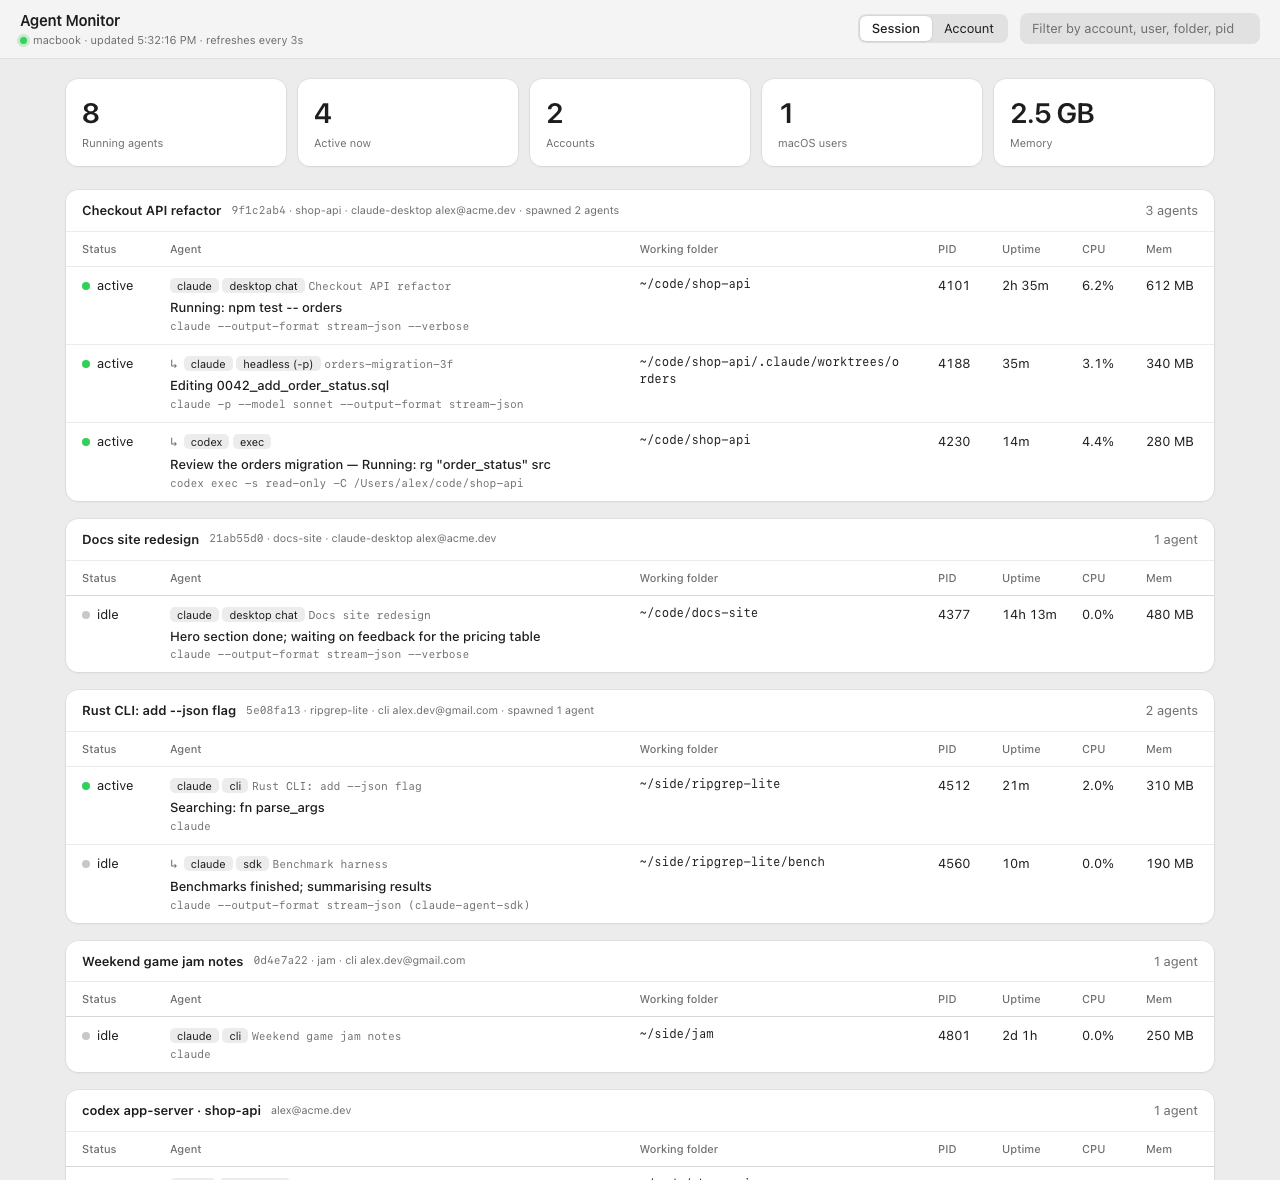
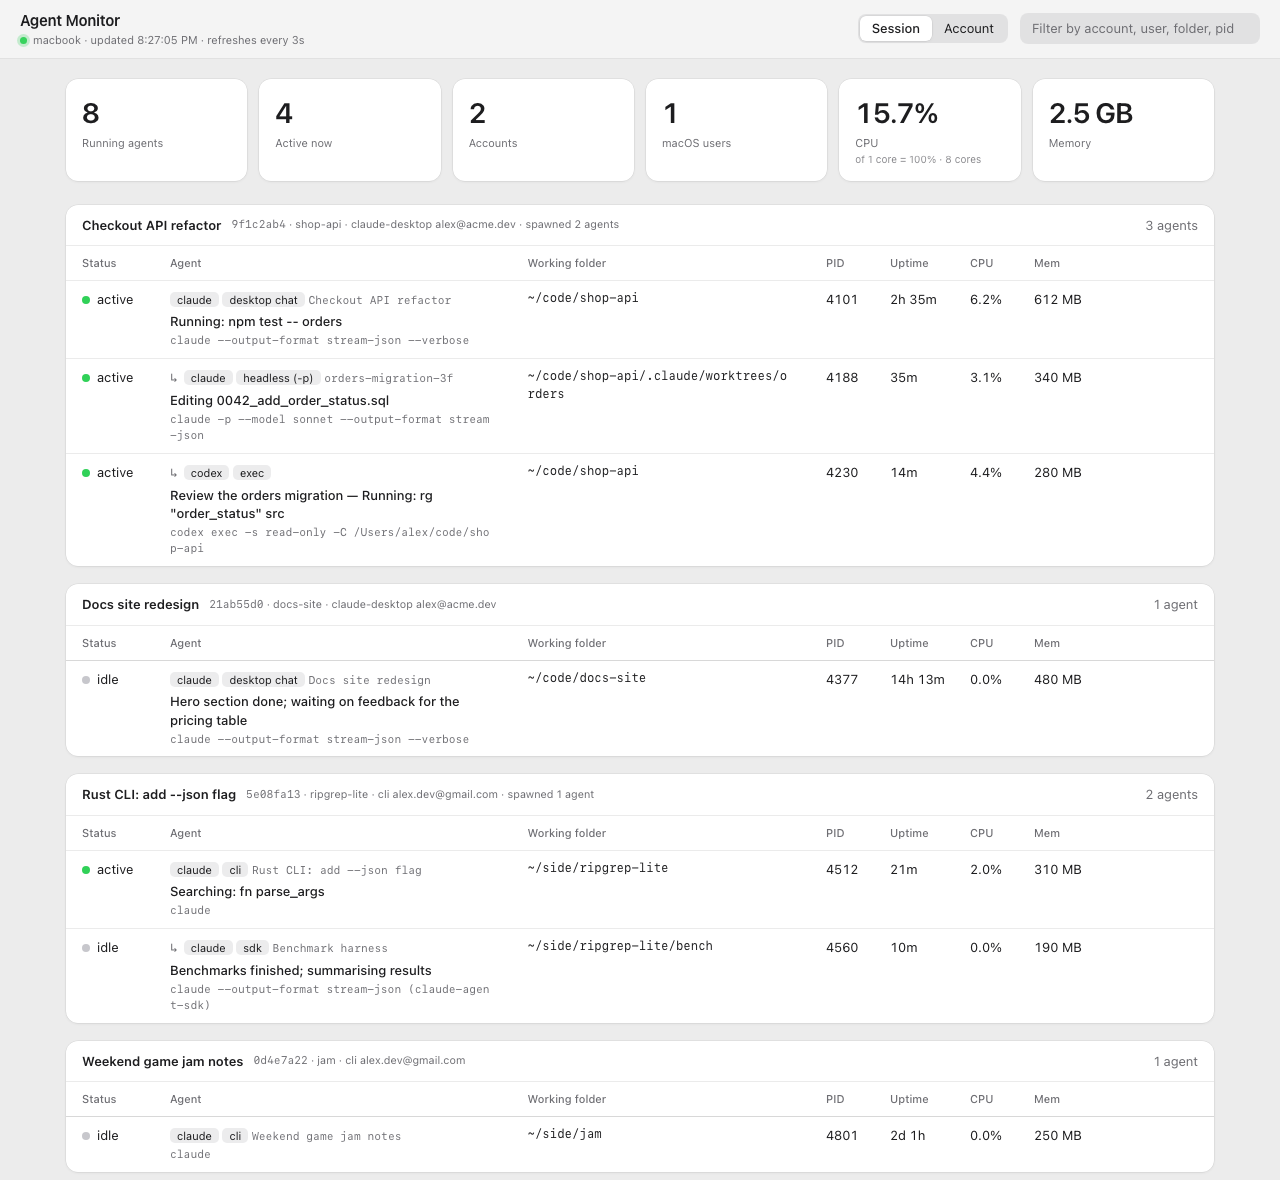
Show total agent CPU in the summary tiles

diff --git a/index.html b/index.html
@@ -29,6 +29,7 @@ input::placeholder{color:var(--mute)}
 .tiles{display:grid;grid-template-columns:repeat(auto-fit,minmax(150px,1fr));gap:12px;margin:20px 0 24px}
 .tile{background:var(--card);border-radius:12px;padding:14px 16px;box-shadow:var(--shadow)}
 .tile b{display:block;font-size:28px;font-weight:600;letter-spacing:-.02em;font-variant-numeric:tabular-nums}
+.tile em{display:block;font-style:normal;font-size:10px;opacity:.8}
 .tile span{color:var(--mute);font-size:11px}
 .acct{background:var(--card);border-radius:12px;margin-bottom:18px;overflow:hidden;box-shadow:var(--shadow)}
 .acct>h2{margin:0;padding:11px 16px;font-size:13px;font-weight:600;display:flex;gap:10px;align-items:center;border-bottom:.5px solid var(--line)}
@@ -99,8 +100,8 @@ function render(){
   const list=all.filter(a=>!q||JSON.stringify([a.summary,a.title,a.account,a.user,a.cwd,a.pid,a.kind,a.mode]).toLowerCase().includes(q));
   const accounts=new Set(all.map(a=>a.account)), users=new Set(all.map(a=>a.user));
   const tiles=[["Running agents",all.length],["Active now",all.filter(a=>a.status==="active").length],
-    ["Accounts",accounts.size],["macOS users",users.size],["Memory",(all.reduce((s,a)=>s+a.mem_mb,0)/1024).toFixed(1)+" GB"]];
-  $("tiles").innerHTML=tiles.map(([l,v])=>`<div class="tile"><b>${v}</b><span>${l}</span></div>`).join("");
+    ["Accounts",accounts.size],["macOS users",users.size],["CPU",all.reduce((s,a)=>s+a.cpu,0).toFixed(1)+"%",`of 1 core = 100% · ${data.cores||"?"} cores`],["Memory",(all.reduce((s,a)=>s+a.mem_mb,0)/1024).toFixed(1)+" GB"]];
+  $("tiles").innerHTML=tiles.map(([l,v,n])=>`<div class="tile"><b>${v}</b><span>${l}${n?` <em>${n}</em>`:""}</span></div>`).join("");
   const byRoot={};list.forEach(a=>(byRoot[a.root_pid]??=[]).push(a));
   const root=id=>all.find(x=>x.pid===id)||{};
   let groups;

diff --git a/server.py b/server.py
@@ -511,7 +511,7 @@ class H(BaseHTTPRequestHandler):
             return self.send(403, b"forbidden", "text/plain")
         if path == "/api/agents":
             body = json.dumps({"ts": time.time(), "host": "macbook" if DEMO else os.uname().nodename,
-                               "me": pwd.getpwuid(os.getuid()).pw_name, "agents": demo_agents() if DEMO else scan()})
+                               "cores": os.cpu_count(), "me": pwd.getpwuid(os.getuid()).pw_name, "agents": demo_agents() if DEMO else scan()})
             self.send(200, body.encode(), "application/json")
         elif path in ("/", "/index.html"):
             with open(os.path.join(HERE, "index.html"), "rb") as f:

diff --git a/README.md b/README.md
@@ -16,7 +16,7 @@ A local dashboard for every AI coding agent running on your Mac: Claude Code, Cl
 - **A one-line "what is it doing".** For Claude, the tool call in progress (`Running: npm test`, `Editing schema.sql`) or the last status line. For Codex jobs, the task and the command it is running.
 - **Several accounts at once.** Each Claude process reports the login it runs under, and Codex reports its own.
 - **Accurate labels.** `desktop chat`, `cli`, `headless (-p)`, `sdk`, plus Codex `exec` and `app-server`.
-- **Live status.** Active or idle, with CPU, memory and uptime, refreshed every 3 seconds.
+- **Live status.** Active or idle, with CPU, memory and uptime per agent, plus total agent CPU and memory at the top, refreshed every 3 seconds.
 - **Stop button.** Click **Stop**, then **Confirm?**, to send SIGTERM to an agent. If it is still running afterwards the button becomes **Force quit** (SIGKILL). Only your own processes get a button.
 - **Search** across chat names, summaries, folders, accounts and PIDs. Light and dark themes follow macOS (`?theme=light|dark` forces one).
 
